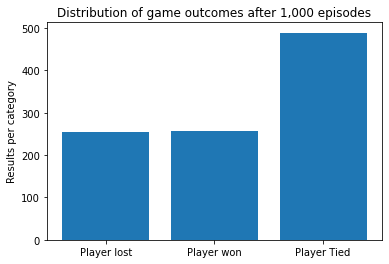
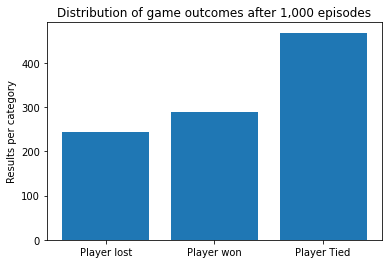
using numpy 2d arrays may be easier for handling q-tables and rewards tables

diff --git a/app/simulator/dumb_policy.py b/app/simulator/dumb_policy.py
@@ -1,103 +1,36 @@
-from app.simulator.policy import State, Action
+import numpy
 
 """
 Results of this q-table after 1000 episodes (dealer cheats)
-  player losses = 255
-  player wins   = 256
-  player ties   = 489
+  player losses = 244
+  player wins   = 288
+  player ties   = 468
 """
 
-human_created_q_table = {
-    State.SCORE_IS_1: {
-        Action.HIT: 100,
-        Action.STAND: 0
-    },
-    State.SCORE_IS_2: {
-        Action.HIT: 100,
-        Action.STAND: 0
-    },
-    State.SCORE_IS_3: {
-        Action.HIT: 100,
-        Action.STAND: 0
-    },
-    State.SCORE_IS_4: {
-        Action.HIT: 100,
-        Action.STAND: 0
-    },
-    State.SCORE_IS_5: {
-        Action.HIT: 100,
-        Action.STAND: 0
-    },
-    State.SCORE_IS_6: {
-        Action.HIT: 100,
-        Action.STAND: 0
-    },
-    State.SCORE_IS_7: {
-        Action.HIT: 100,
-        Action.STAND: 0
-    },
-    State.SCORE_IS_8: {
-        Action.HIT: 100,
-        Action.STAND: 0
-    },
-    State.SCORE_IS_9: {
-        Action.HIT: 100,
-        Action.STAND: 0
-    },
-    State.SCORE_IS_10: {
-        Action.HIT: 100,
-        Action.STAND: 0
-    },
-    State.SCORE_IS_11: {
-        Action.HIT: 100,
-        Action.STAND: 0
-    },
-    State.SCORE_IS_12: {
-        Action.HIT: 100,
-        Action.STAND: 0
-    },
-    State.SCORE_IS_13: {
-        Action.HIT: 100,
-        Action.STAND: 0
-    },
-    State.SCORE_IS_14: {
-        Action.HIT: 100,
-        Action.STAND: 0
-    },
-    State.SCORE_IS_15: {
-        Action.HIT: 100,
-        Action.STAND: 0
-    },
-    State.SCORE_IS_16: {
-        Action.HIT: 0,
-        Action.STAND: 100
-    },
-    State.SCORE_IS_17: {
-        Action.HIT: 0,
-        Action.STAND: 100
-    },
-    State.SCORE_IS_18: {
-        Action.HIT: 0,
-        Action.STAND: 100
-    },
-    State.SCORE_IS_19: {
-        Action.HIT: 0,
-        Action.STAND: 100
-    },
-    State.SCORE_IS_20: {
-        Action.HIT: 0,
-        Action.STAND: 100
-    },
-    State.SCORE_IS_21: {
-        Action.HIT: 0,
-        Action.STAND: 100
-    },
-    State.PLAYER_HAS_WON: {
-        Action.HIT: 0,
-        Action.STAND: 100
-    },
-    State.PLAYER_HAS_LOST: {
-        Action.HIT: 0,
-        Action.STAND: 100
-    }
-}
+human_created_q_table = numpy.array(
+    [
+        [100, 0],  # Score is 1 - Hit/Stand
+        [100, 0],
+        [100, 0],
+        [100, 0],
+        [100, 0],
+        [100, 0],
+        [100, 0],
+        [100, 0],
+        [100, 0],
+        [100, 0],
+        [100, 0],
+        [100, 0],
+        [100, 0],
+        [100, 0],
+        [100, 0],  # Score is 15 - Hit/Stand
+        [0, 100],  # Score is 16 - Hit/Stand
+        [0, 100],
+        [0, 100],
+        [0, 100],
+        [0, 100],
+        [0, 100],  # Score is 21 - Hit/Stand
+        [0, 100],  # Player win - Hit/Stand
+        [0, 100],  # Player lost - Hit/Stand
+    ]
+)

diff --git a/app/simulator/policy.py b/app/simulator/policy.py
@@ -1,32 +1,44 @@
 from enum import Enum
 
-
-class State(Enum):
-    SCORE_IS_1 = 1
-    SCORE_IS_2 = 2
-    SCORE_IS_3 = 3
-    SCORE_IS_4 = 4
-    SCORE_IS_5 = 5
-    SCORE_IS_6 = 6
-    SCORE_IS_7 = 7
-    SCORE_IS_8 = 8
-    SCORE_IS_9 = 9
-    SCORE_IS_10 = 10
-    SCORE_IS_11 = 11
-    SCORE_IS_12 = 12
-    SCORE_IS_13 = 13
-    SCORE_IS_14 = 14
-    SCORE_IS_15 = 15
-    SCORE_IS_16 = 16
-    SCORE_IS_17 = 17
-    SCORE_IS_18 = 18
-    SCORE_IS_19 = 19
-    SCORE_IS_20 = 20
-    SCORE_IS_21 = 21
-    PLAYER_HAS_WON = 22
-    PLAYER_HAS_LOST = 23
+"""
+The integers corresponding to each enum name represents the index that can be used to select that state/action from the
+q-table or rewards table. Don't modify these numbers.
+"""
 
 
 class Action(Enum):
-    HIT = 1
-    STAND = 2
+    HIT = 0
+    STAND = 1
+
+
+class State(Enum):
+    SCORE_IS_1 = 0  # TODO: Remove? - Technically not possible if always dealt 2 cards to begin each round
+    SCORE_IS_2 = 1
+    SCORE_IS_3 = 2
+    SCORE_IS_4 = 3
+    SCORE_IS_5 = 4
+    SCORE_IS_6 = 5
+    SCORE_IS_7 = 6
+    SCORE_IS_8 = 7
+    SCORE_IS_9 = 8
+    SCORE_IS_10 = 9
+    SCORE_IS_11 = 10
+    SCORE_IS_12 = 11
+    SCORE_IS_13 = 12
+    SCORE_IS_14 = 13
+    SCORE_IS_15 = 14
+    SCORE_IS_16 = 15
+    SCORE_IS_17 = 16
+    SCORE_IS_18 = 17
+    SCORE_IS_19 = 18
+    SCORE_IS_20 = 19
+    SCORE_IS_21 = 20
+    PLAYER_HAS_WON = 21
+    PLAYER_HAS_LOST = 22
+
+
+def get_current_state_from_score(score: int) -> State:
+    if 1 <= score <= 21:
+        return State(score - 1)
+    else:
+        raise ValueError(f'A State was not derived from the following score: {score}')

diff --git a/app/simulator/evaluator.py b/app/simulator/evaluator.py
@@ -1,8 +1,11 @@
+import numpy
+from numpy.typing import ArrayLike
+
 from app.game.Game import Game, EndGameState
-from app.simulator.policy import State, Action
+from app.simulator.policy import Action, get_current_state_from_score
 
 
-def evaluate_policy_table(q_table: dict):
+def evaluate_policy_table(q_table: ArrayLike):
     episodes = 1000
     game = Game()
 
@@ -14,8 +17,10 @@ def evaluate_policy_table(q_table: dict):
         game.new_round()
         while game.player.round_over is False:
             current_score = game.player.hand.score_hand()
-            actions = q_table[State(current_score)]
-            best_action = max(actions, key=lambda x: actions[x])
+            current_state = get_current_state_from_score(current_score)
+            actions = q_table[current_state.value]
+            best_action_index = numpy.argmax(actions)
+            best_action = Action(best_action_index)
 
             if best_action == Action.HIT:
                 game.player.hit()
